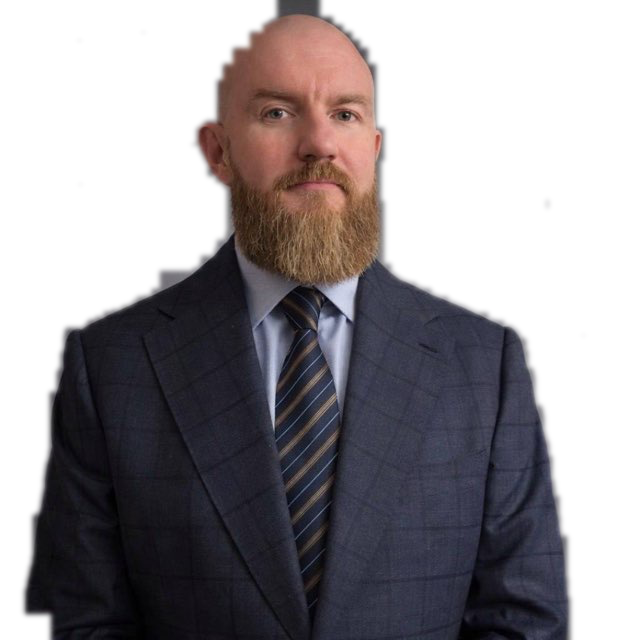
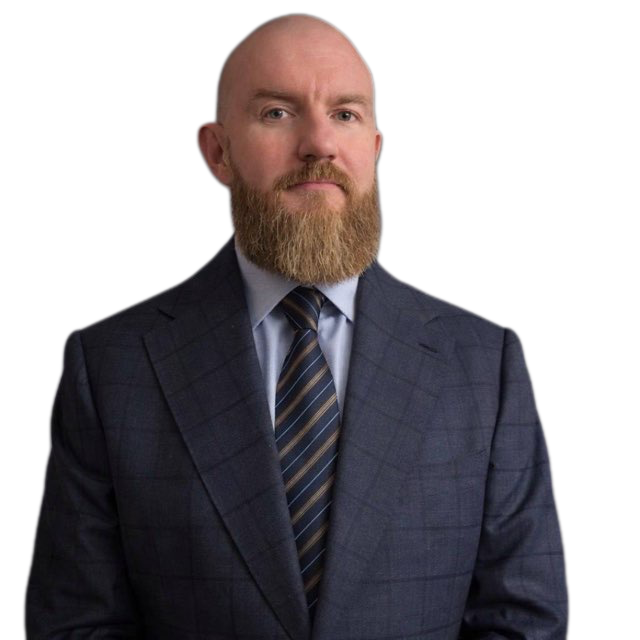
Перенести основателя в подвал сайта, качественная обтравка через ML
- Пересчитал обтравку фото Ермакова через модель U2Net (human segmentation, ONNX + onnxruntime вручную) — точный силуэт, весь пиджак цел, без дыр/патчей
- Убрал отдельную секцию «Основатель», перенёс фото и кнопки «ТГ-канал»/«Написать мне» в подвал
- Убрал колонку «Навигация» из подвала, добавил «Документы» (Оферта, Политика конфиденциальности)
- Добавлены страницы oferta.html и privacy.html — каркас с плейсхолдерами вместо реальных юр. реквизитов

diff --git a/index2.html b/index2.html
@@ -44,6 +44,10 @@
   .variety-row:hover .variety-img{ transform:scale(1.04); filter:brightness(.8) saturate(1) contrast(1.05) !important; }
   .variety-row .variety-arrow{ transition:color .3s ease, transform .3s ease; }
   .variety-row:hover .variety-arrow{ color:#f0e9da; transform:translateX(5px); }
+  .variety-hero-img{ transition:transform 8s cubic-bezier(.16,.4,.3,1); }
+  .variety-hero:hover .variety-hero-img{ transform:scale(1.06); }
+  .variety-hero-cta{ transition:all .35s ease; }
+  .variety-hero:hover .variety-hero-cta{ border-color:#8a3b42; background:#8a3b42; }
 </style>
 </helmet>
 <div id="wht-root" style="position:relative; background:#0b0a09; color:#f0e9da; font-family:'PT Sans',sans-serif; font-weight:400; overflow-x:hidden;">
@@ -114,20 +118,26 @@
     </div>
   </section>
 
-  <footer data-screen-label="06 — Футер" id="footer" data-reveal-id="footer" style="position:relative; padding:100px 40px 34px; border-top:1px solid rgba(240,233,218,0.1); overflow:hidden;">
-    <div class="founder-grid" style="max-width:1240px; margin:0 auto 90px; display:grid; grid-template-columns:1fr 320px; gap:56px; align-items:end;">
-      <div>
-        <h2 style="font-family:'Cormorant Garamond',serif; font-weight:600; font-size:clamp(24px,2.6vw,32px); color:#f5efe1; margin:0 0 20px;">Мы любим и чай и вас</h2>
-        <div style="font-size:10.5px; letter-spacing:.18em; color:color-mix(in srgb, {{ accent }} 55%, #f5efe1 45%); margin-bottom:14px;">ОСНОВАТЕЛЬ</div>
-        <p style="font-size:14.5px; line-height:1.85; color:#c9c0b3; margin:0 0 28px; max-width:400px;">Привет, я Сергей Ермаков — основатель бренда «ЧАЙ ДИКОЙ ЛОШАДИ»</p>
+  <section data-screen-label="05 — Основатель" id="subscribe" data-reveal-id="subscribe" style="position:relative; padding:90px 40px 0; border-top:1px solid rgba(240,233,218,0.1); overflow:hidden;">
+    <div class="founder-grid" style="max-width:980px; margin:0 auto; display:grid; grid-template-columns:1fr 340px; gap:56px; align-items:end;">
+      <div style="padding-bottom:70px;">
+        <div style="font-size:10.5px; letter-spacing:.18em; color:color-mix(in srgb, {{ accent }} 55%, #f5efe1 45%); margin-bottom:20px;">ОСНОВАТЕЛЬ</div>
+        <h2 style="font-family:'Cormorant Garamond',serif; font-weight:600; font-size:clamp(26px,3vw,36px); color:#f5efe1; margin:0 0 16px;">Привет, я Сергей Ермаков</h2>
+        <p style="font-size:14.5px; line-height:1.85; color:#c9c0b3; margin:0 0 32px; max-width:400px;">основатель бренда «ЧАЙ ДИКОЙ ЛОШАДИ»</p>
         <div style="display:flex; gap:16px; flex-wrap:wrap;">
           <a href="https://t.me/wildhorsetea" class="hover-btn-accent" style="background:{{ accent }}; color:#f5efe1; text-decoration:none; font-size:12px; letter-spacing:.14em; padding:16px 32px; display:inline-block;">ТГ-КАНАЛ →</a>
-          <a href="https://t.me/ssermakovss" class="hover-outline-fill" style="border:1px solid rgba(240,233,218,0.3); color:#f0e9da; text-decoration:none; font-size:12px; letter-spacing:.14em; padding:16px 32px; display:inline-block;">НАПИСАТЬ МНЕ →</a>
+          <a href="mailto:hello@wildhorsetea.ru" class="hover-outline-fill" style="border:1px solid rgba(240,233,218,0.3); color:#f0e9da; text-decoration:none; font-size:12px; letter-spacing:.14em; padding:16px 32px; display:inline-block;">СВЯЗАТЬСЯ</a>
         </div>
       </div>
       <div style="align-self:end; line-height:0;">
-        <img src="./images/founder-sergey-cutout.png" alt="Сергей Ермаков, основатель 野馬茶" loading="lazy" style="width:100%; height:auto; max-height:420px; object-fit:contain; object-position:bottom; display:block; filter:grayscale(.35) sepia(.12) brightness(.92) contrast(1.08);"/>
+        <img src="./images/founder-sergey-cutout.png" alt="Сергей Ермаков, основатель 野馬茶" loading="lazy" style="width:100%; height:auto; max-height:560px; object-fit:contain; object-position:bottom; display:block; filter:grayscale(.35) sepia(.12) brightness(.92) contrast(1.08);"/>
       </div>
+    </div>
+  </section>
+
+  <footer data-screen-label="06 — Футер" id="footer" data-reveal-id="footer" style="position:relative; padding:100px 40px 34px; border-top:1px solid rgba(240,233,218,0.1);">
+    <div style="max-width:1240px; margin:0 auto 50px;">
+      <h2 style="font-family:'Cormorant Garamond',serif; font-weight:600; font-size:clamp(24px,2.6vw,32px); color:#f5efe1; margin:0;">Мы любим и чай и вас</h2>
     </div>
     <div class="footer-grid" style="max-width:1240px; margin:0 auto; display:grid; grid-template-columns:1.4fr 1fr 1fr; gap:60px; margin-bottom:80px;">
       <div>
@@ -137,18 +147,19 @@
         <p style="font-size:12px; line-height:1.85; color:#8a8175; max-width:280px;">Китайский чай для тех, кто никуда не спешит. Дистрибуция ограниченными партиями.</p>
       </div>
       <div>
+        <div style="font-size:10.5px; letter-spacing:.14em; color:#8a8175; margin-bottom:22px;">НАВИГАЦИЯ</div>
+        <div style="display:flex; flex-direction:column; gap:1px; margin:-10px 0;">
+          <a href="#varieties" class="hover-accent-text" style="color:#c7bfaf; text-decoration:none; font-size:12.5px; padding:10px 0; display:inline-block;">Сорта</a>
+          <a href="#ritual" class="hover-accent-text" style="color:#c7bfaf; text-decoration:none; font-size:12.5px; padding:10px 0; display:inline-block;">Гарантии</a>
+          <a href="#subscribe" class="hover-accent-text" style="color:#c7bfaf; text-decoration:none; font-size:12.5px; padding:10px 0; display:inline-block;">Основатель</a>
+        </div>
+      </div>
+      <div>
         <div style="font-size:10.5px; letter-spacing:.14em; color:#8a8175; margin-bottom:22px;">КОНТАКТЫ</div>
         <div style="display:flex; flex-direction:column; gap:1px; margin:-10px 0;">
           <a href="mailto:hello@wildhorsetea.ru" class="hover-accent-text" style="color:#c7bfaf; text-decoration:none; font-size:12.5px; padding:10px 0; display:inline-block;">hello@wildhorsetea.ru</a>
           <a href="https://t.me/wildhorsetea" class="hover-accent-text" style="color:#c7bfaf; text-decoration:none; font-size:12.5px; padding:10px 0; display:inline-block;">Telegram</a>
           <span style="color:#c7bfaf; font-size:12.5px; padding:10px 0; display:inline-block;">Москва · 55.75°N 37.6°E</span>
-        </div>
-      </div>
-      <div>
-        <div style="font-size:10.5px; letter-spacing:.14em; color:#8a8175; margin-bottom:22px;">ДОКУМЕНТЫ</div>
-        <div style="display:flex; flex-direction:column; gap:1px; margin:-10px 0;">
-          <a href="./oferta.html" class="hover-accent-text" style="color:#c7bfaf; text-decoration:none; font-size:12.5px; padding:10px 0; display:inline-block;">Публичная оферта</a>
-          <a href="./privacy.html" class="hover-accent-text" style="color:#c7bfaf; text-decoration:none; font-size:12.5px; padding:10px 0; display:inline-block;">Политика конфиденциальности</a>
         </div>
       </div>
     </div>

diff --git a/oferta.html b/oferta.html
@@ -1,0 +1,49 @@
+<!DOCTYPE html>
+<html lang="ru">
+<head>
+<meta charset="utf-8">
+<meta name="viewport" content="width=device-width, initial-scale=1">
+<link rel="icon" href="./images/favicon.ico">
+<title>Публичная оферта · 野馬茶</title>
+<link rel="preconnect" href="https://fonts.googleapis.com">
+<link rel="preconnect" href="https://fonts.gstatic.com" crossorigin>
+<link href="https://fonts.googleapis.com/css2?family=Cormorant+Garamond:wght@600&family=PT+Sans:wght@400;700&display=swap" rel="stylesheet">
+<style>
+  body{ margin:0; background:#0b0a09; color:#c9c0b3; font-family:'PT Sans',sans-serif; font-size:15px; line-height:1.8; -webkit-font-smoothing:antialiased; }
+  .wrap{ max-width:760px; margin:0 auto; padding:90px 40px 120px; }
+  a{ color:#c7bfaf; }
+  h1{ font-family:'Cormorant Garamond',serif; font-weight:600; font-size:clamp(28px,4vw,42px); color:#f5efe1; margin:0 0 40px; }
+  h2{ font-family:'Cormorant Garamond',serif; font-weight:600; font-size:20px; color:#f5efe1; margin:44px 0 12px; }
+  .placeholder{ color:#a0545d; }
+  .back{ display:inline-block; margin-bottom:50px; font-size:12px; letter-spacing:.1em; color:#8a8175; text-decoration:none; }
+</style>
+</head>
+<body>
+<div class="wrap">
+  <a class="back" href="./index.html">← НА ГЛАВНУЮ</a>
+  <h1>Публичная оферта</h1>
+
+  <p><span class="placeholder">[Заполнить: полное наименование продавца — ИП/ООО, ИНН, ОГРН(ИП), юридический адрес]</span> (далее — «Продавец») публикует настоящий документ, являющийся публичной офертой (предложением) в адрес любого физического или юридического лица (далее — «Покупатель») заключить договор розничной купли-продажи чая и сопутствующих товаров на условиях, изложенных ниже.</p>
+
+  <h2>1. Предмет договора</h2>
+  <p>Продавец обязуется передать в собственность Покупателя товар (чай и сопутствующие товары), а Покупатель обязуется принять и оплатить товар на условиях настоящей оферты.</p>
+
+  <h2>2. Порядок оформления заказа</h2>
+  <p><span class="placeholder">[Заполнить: способ оформления заказа — сайт/Telegram/менеджер, момент заключения договора]</span></p>
+
+  <h2>3. Цена и порядок оплаты</h2>
+  <p><span class="placeholder">[Заполнить: валюта, способы оплаты, момент перехода права собственности]</span></p>
+
+  <h2>4. Доставка</h2>
+  <p><span class="placeholder">[Заполнить: способы и сроки доставки, зона действия, стоимость]</span></p>
+
+  <h2>5. Возврат и обмен</h2>
+  <p>Возврат и обмен товара надлежащего и ненадлежащего качества осуществляется в соответствии с Законом РФ «О защите прав потребителей» от 07.02.1992 № 2300-1.</p>
+
+  <h2>6. Реквизиты продавца</h2>
+  <p><span class="placeholder">[Заполнить: наименование, ИНН, ОГРН, адрес, банковские реквизиты, контактный email/телефон]</span></p>
+
+  <p style="margin-top:60px; font-size:12px; color:#5c5249;">Документ опубликован в демонстрационных целях и требует юридической проверки перед использованием в реальной коммерческой деятельности.</p>
+</div>
+</body>
+</html>

diff --git a/privacy.html b/privacy.html
@@ -1,0 +1,46 @@
+<!DOCTYPE html>
+<html lang="ru">
+<head>
+<meta charset="utf-8">
+<meta name="viewport" content="width=device-width, initial-scale=1">
+<link rel="icon" href="./images/favicon.ico">
+<title>Политика конфиденциальности · 野馬茶</title>
+<link rel="preconnect" href="https://fonts.googleapis.com">
+<link rel="preconnect" href="https://fonts.gstatic.com" crossorigin>
+<link href="https://fonts.googleapis.com/css2?family=Cormorant+Garamond:wght@600&family=PT+Sans:wght@400;700&display=swap" rel="stylesheet">
+<style>
+  body{ margin:0; background:#0b0a09; color:#c9c0b3; font-family:'PT Sans',sans-serif; font-size:15px; line-height:1.8; -webkit-font-smoothing:antialiased; }
+  .wrap{ max-width:760px; margin:0 auto; padding:90px 40px 120px; }
+  a{ color:#c7bfaf; }
+  h1{ font-family:'Cormorant Garamond',serif; font-weight:600; font-size:clamp(28px,4vw,42px); color:#f5efe1; margin:0 0 40px; }
+  h2{ font-family:'Cormorant Garamond',serif; font-weight:600; font-size:20px; color:#f5efe1; margin:44px 0 12px; }
+  .placeholder{ color:#a0545d; }
+  .back{ display:inline-block; margin-bottom:50px; font-size:12px; letter-spacing:.1em; color:#8a8175; text-decoration:none; }
+</style>
+</head>
+<body>
+<div class="wrap">
+  <a class="back" href="./index.html">← НА ГЛАВНУЮ</a>
+  <h1>Политика конфиденциальности</h1>
+
+  <p>Настоящая Политика определяет порядок обработки персональных данных пользователей сайта <span class="placeholder">[Заполнить: домен сайта]</span> оператором <span class="placeholder">[Заполнить: полное наименование, ИНН, ОГРН(ИП), адрес]</span> (далее — «Оператор») в соответствии с Федеральным законом от 27.07.2006 № 152-ФЗ «О персональных данных».</p>
+
+  <h2>1. Какие данные собираются</h2>
+  <p><span class="placeholder">[Заполнить: имя, телефон, email, адрес доставки — какие поля реально запрашиваются при заказе/подписке]</span></p>
+
+  <h2>2. Цели обработки</h2>
+  <p>Обработка персональных данных осуществляется в целях оформления и исполнения заказов, обратной связи с Покупателем, информирования о статусе заказа.</p>
+
+  <h2>3. Передача третьим лицам</h2>
+  <p><span class="placeholder">[Заполнить: службы доставки, платёжные системы, CRM — кому реально передаются данные]</span></p>
+
+  <h2>4. Хранение и защита данных</h2>
+  <p>Оператор принимает необходимые организационные и технические меры для защиты персональных данных от неправомерного доступа, изменения, раскрытия или уничтожения.</p>
+
+  <h2>5. Права пользователя</h2>
+  <p>Пользователь вправе запросить уточнение, блокирование или уничтожение своих персональных данных, отозвав согласие на обработку по адресу <span class="placeholder">[Заполнить: контактный email]</span>.</p>
+
+  <p style="margin-top:60px; font-size:12px; color:#5c5249;">Документ опубликован в демонстрационных целях и требует юридической проверки перед использованием в реальной коммерческой деятельности.</p>
+</div>
+</body>
+</html>
